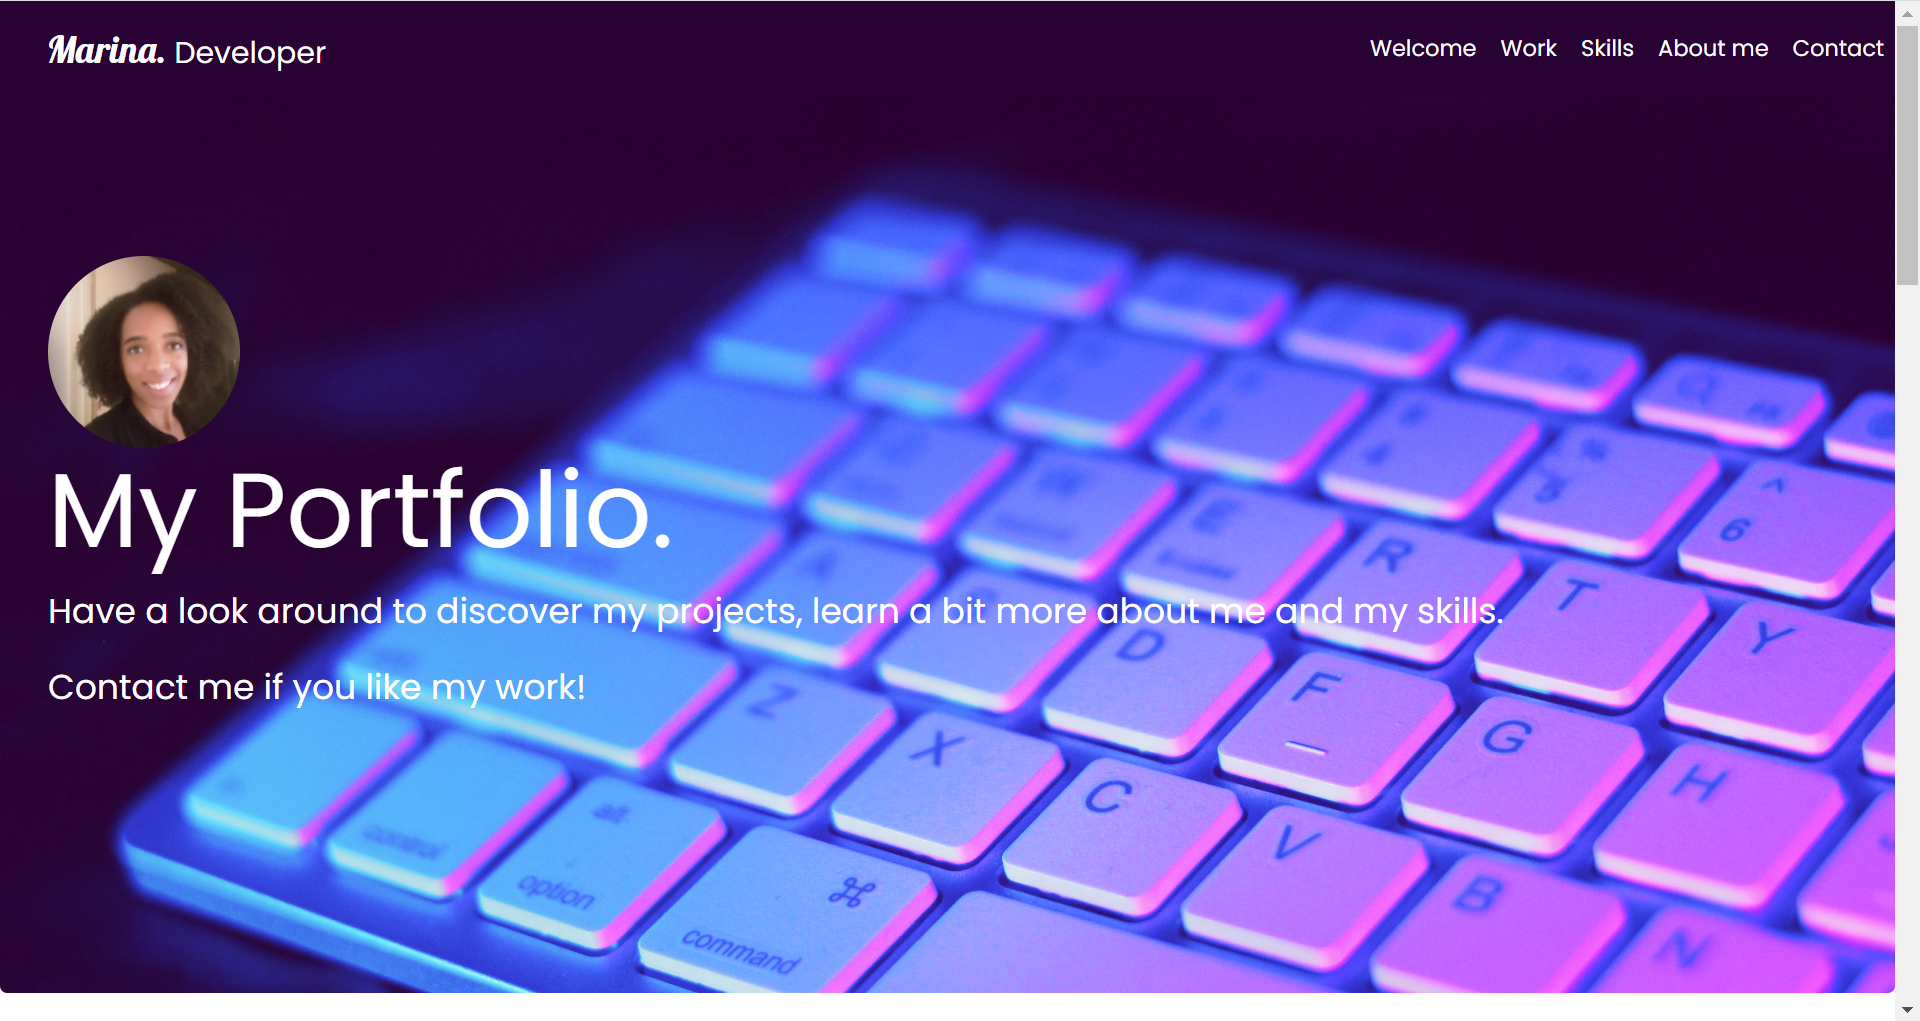
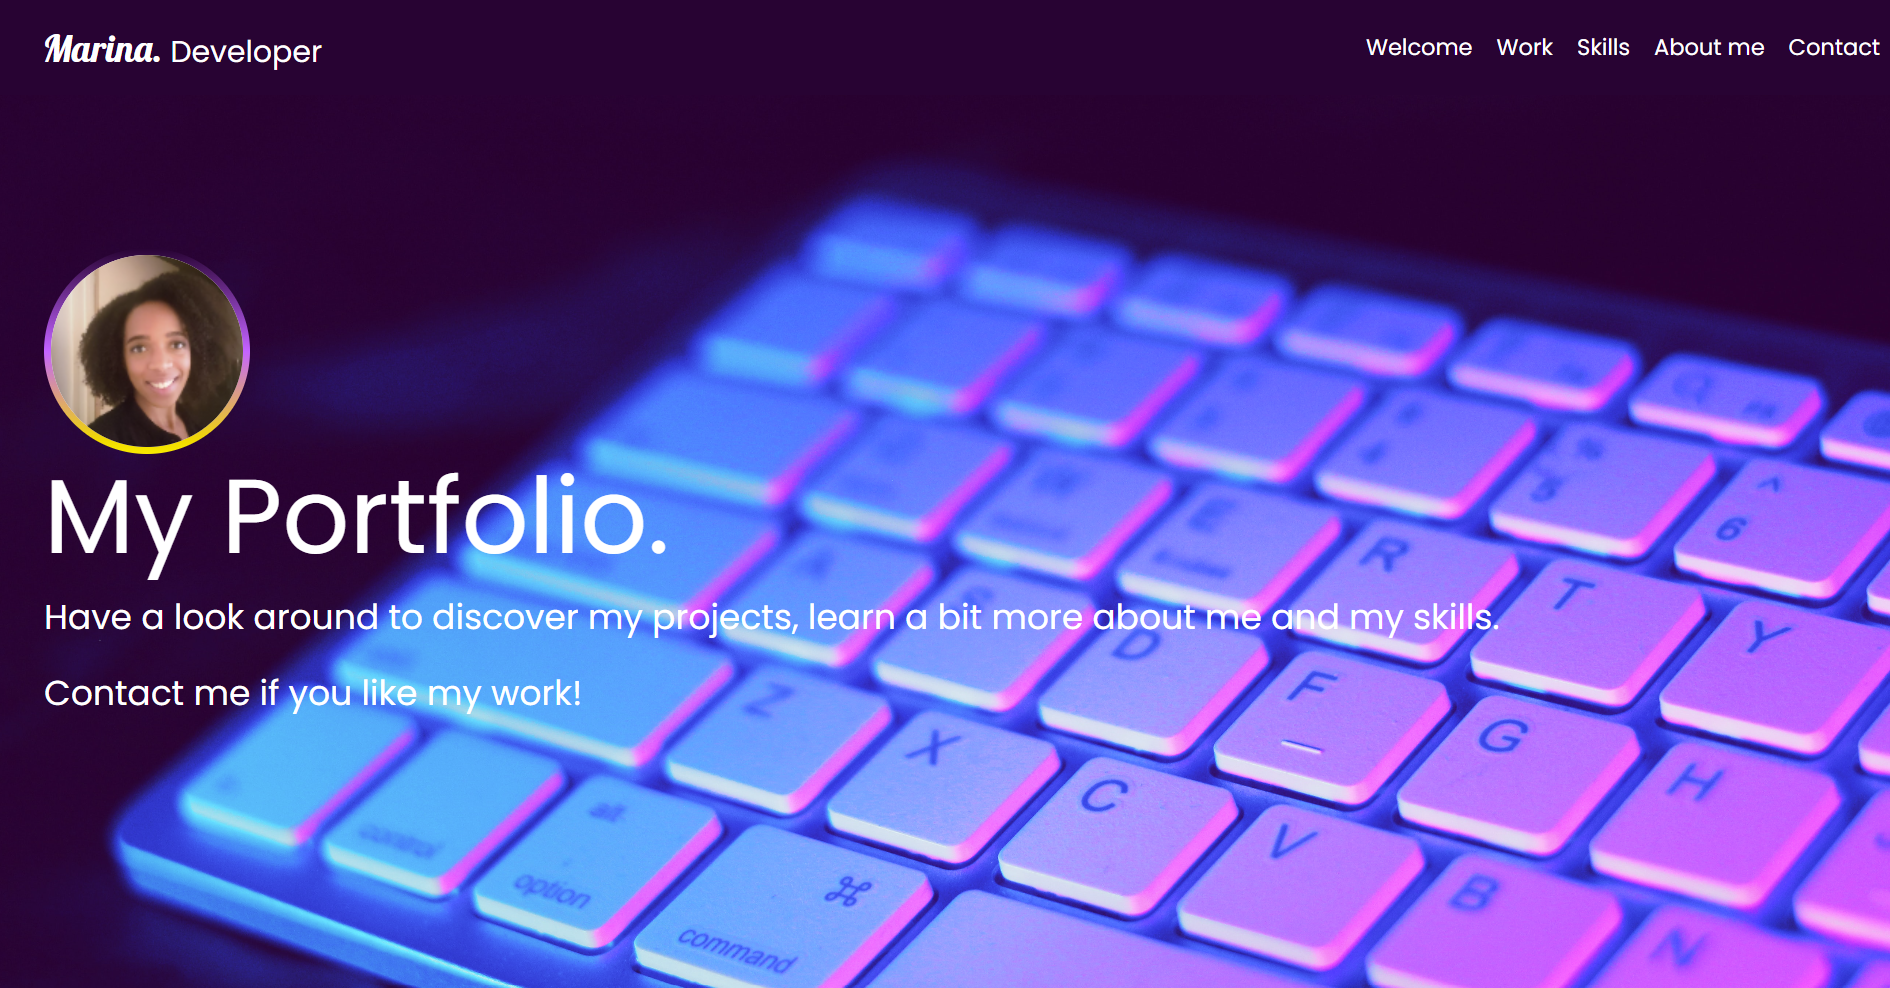
Updated Readme, skills cards + navbar sizing

diff --git a/index.html b/index.html
@@ -16,9 +16,7 @@
     <link rel="stylesheet" href="https://fonts.googleapis.com/css2?family=Righteous">
     <link rel="stylesheet" href="css/style.css">
     <script src="https://kit.fontawesome.com/e7ad80d2c6.js" crossorigin="anonymous"></script>
-
     <title>Marina // Developer</title>
-    <link rel="icon" type="image/x-icon" href="/images/favicon.ico">
 
 </head>
 <body>
@@ -119,28 +117,28 @@
             </div>
         </div>
     </div>
-    <!-- End of Porject Cards -->
+    <!-- End of Project Cards -->
 
     <!-- Skills cards-->
     <div class="container-fluid" id="skills">
         <h2>My skills.</h2>
         <!-- Skill 1 -->
-        <div class="card-deck">
-            <div class="card skills-card">
+        <div class="card-deck justify-content-center">
+            <div class="card skills-card col-lg-3 col-md-6 col-sm-8">
             <img src="images/HTML5_Badge_512.png" class="card-img-top skills-logo" alt="...">
             <div class="card-body">
                 <h5 class="card-title skills-title">HTML</h5>
             </div>
             </div>
             <!-- Skill 2 -->
-            <div class="card skills-card">
+            <div class="card skills-card col-lg-3 col-md-6 col-sm-8">
             <img src="images/CSS.svg" class="card-img-top skills-logo" alt="...">
             <div class="card-body">
                 <h5 class="card-title skills-title">CSS</h5>
             </div>
             </div>
             <!-- Skill 3 -->
-            <div class="card skills-card">
+            <div class="card skills-card col-lg-3 col-md-6 col-sm-8">
             <img src="images/javascript.png" class="card-img-top skills-logo" alt="...">
                 <h5 class="card-title skills-title">JavaScript</h5>
             </div>
@@ -174,7 +172,7 @@
                 <a href="mailto:marina.theotiste@gmail.com"><i class="fa-solid fa-envelope fa-lg"></i></a>
             </li>
         </ul>
-        <p>Copyright Marina 2023</p>
+        <p>© Marina 2023</p>
 
     </footer>
     <!-- End of Footer -->

diff --git a/css/style.css b/css/style.css
@@ -10,6 +10,7 @@ body{
     font-family: "Poppins", sans-serif;
     }
 
+
 /* Navigation bar */
 
 .customNav {
@@ -25,12 +26,6 @@ body{
     color: white !important;
   }
 
-/* .customNav img {
-    width: 50px;
-    height: 50px;
-    border-radius: 50%;
-}   */
-
 .navbar-brand span {
     font-family: "Lobster", sans-serif;
     font-size: 25px;
@@ -45,14 +40,8 @@ body{
 
 .navbar-nav {
     margin-left: auto;
-    margin-right: 0 !important;
+    margin-right: 15px !important;
 }
-
-/* Hero */
-
-/* .container-fluid {
-    margin: auto;
-} */
  
 .jumbotron {
     background-image: url(../images/purple-keyboard.jpg);
@@ -83,11 +72,13 @@ body{
     font-size: 23px;
 }
 
+
 /* Content */
 
 .container-fluid {
     margin-bottom: 1rem !important;
 }
+
 
 /* Project Cards section */
 
@@ -130,6 +121,7 @@ h2 {
     background-color: var(--main-light);
 }
 
+
 /* Skills section */
 
 .skills-card {
@@ -137,8 +129,8 @@ h2 {
 }
 
 .skills-logo {
-    height: 200px;
-    width: 200px;
+    height: 150px;
+    width: 150px;
     margin: 50px auto;
 }
 
@@ -187,6 +179,7 @@ i:hover {
 footer p {
     text-align: center;
     font-style: italic;
+    font-size: 15px;
 }
 
 

diff --git a/README.md b/README.md
@@ -2,16 +2,29 @@
 
 ## Description
 
-
+A responsive portfolio build using Boostrap CSS to showcase my most recent projects to peers and potential employers. 
 
 ## Installation
 
+N/A
 
 ## Usage
 
+Please access the portfolio [here](https://marinaongithub.github.io/Bootstrap-Portfolio/).
 
-![alt text](/images/screenshot.png)
+Use the navigation bar to go directly to the correspondig section. 
+
+![alt text](/images/screenshot-hero.png) 
+
+
+Click on the "Go to the Project" buttons to be directed to the live applications. 
  
+![alt text](/images/screenshot-projects.png) 
+
+Click on the icons to connect with me via different platforms. 
+
+![alt text](/images/screenshot-contacts.png) 
+
 
 ## Credits
 
